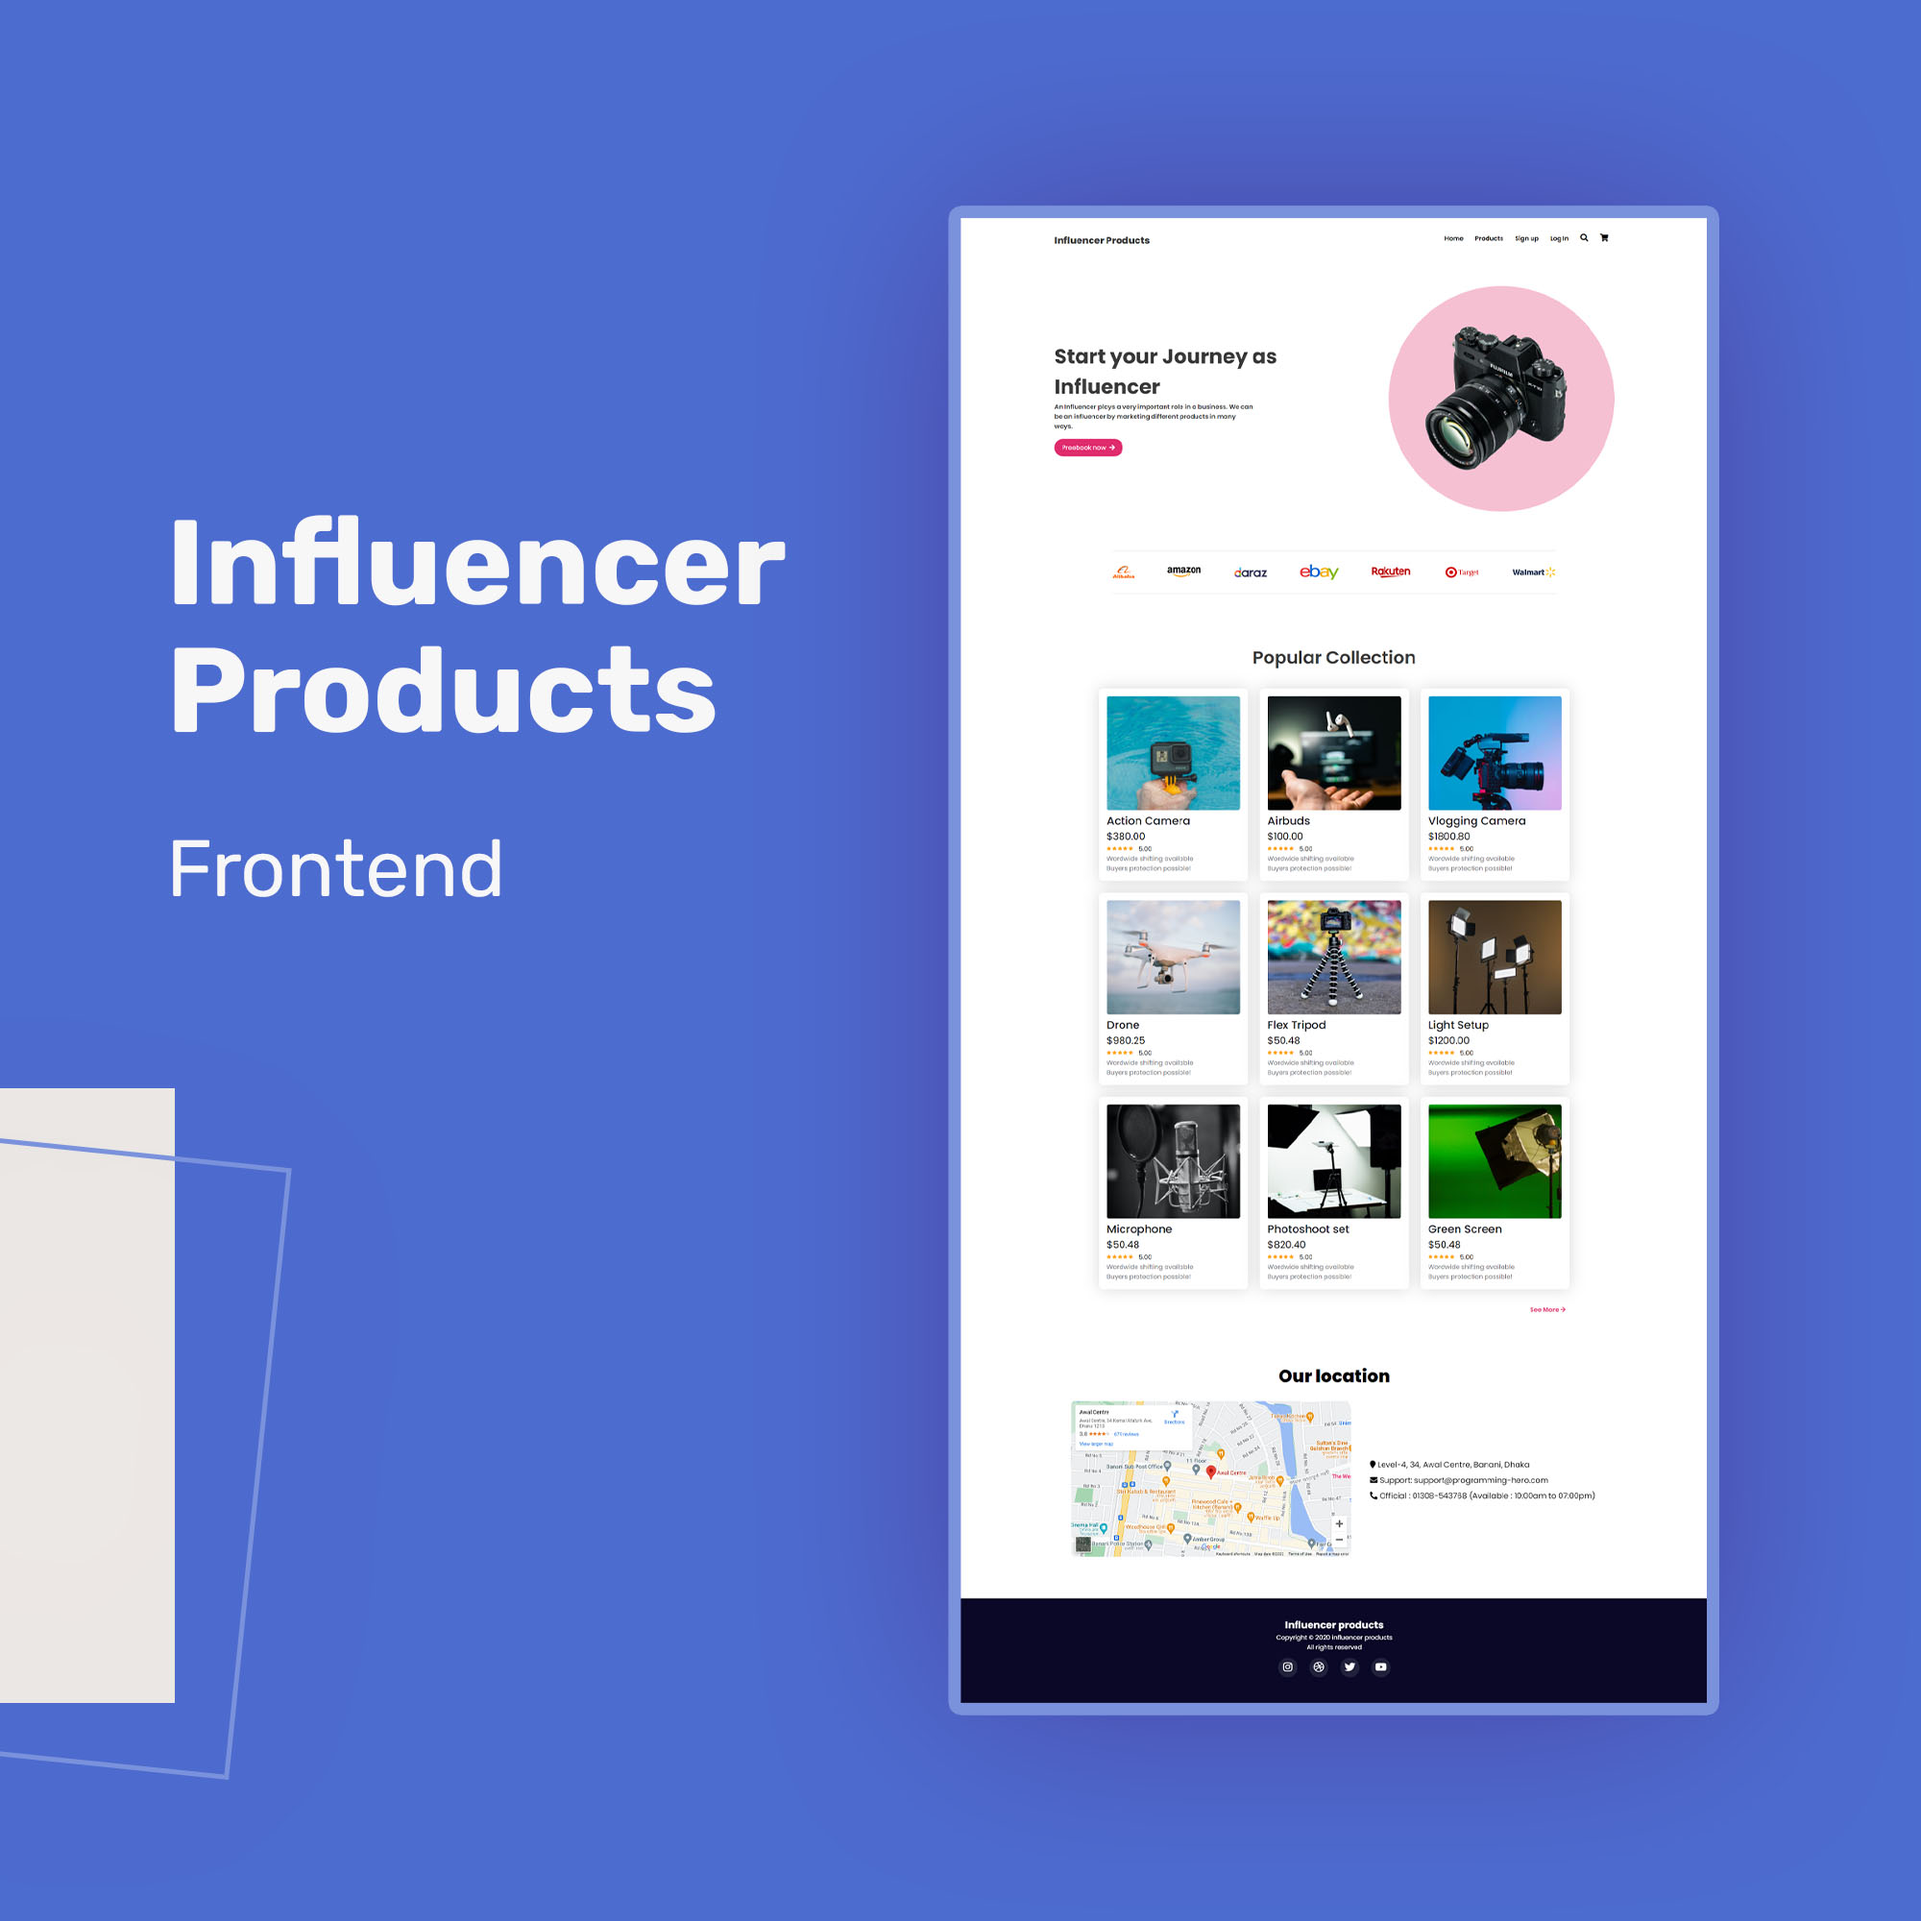
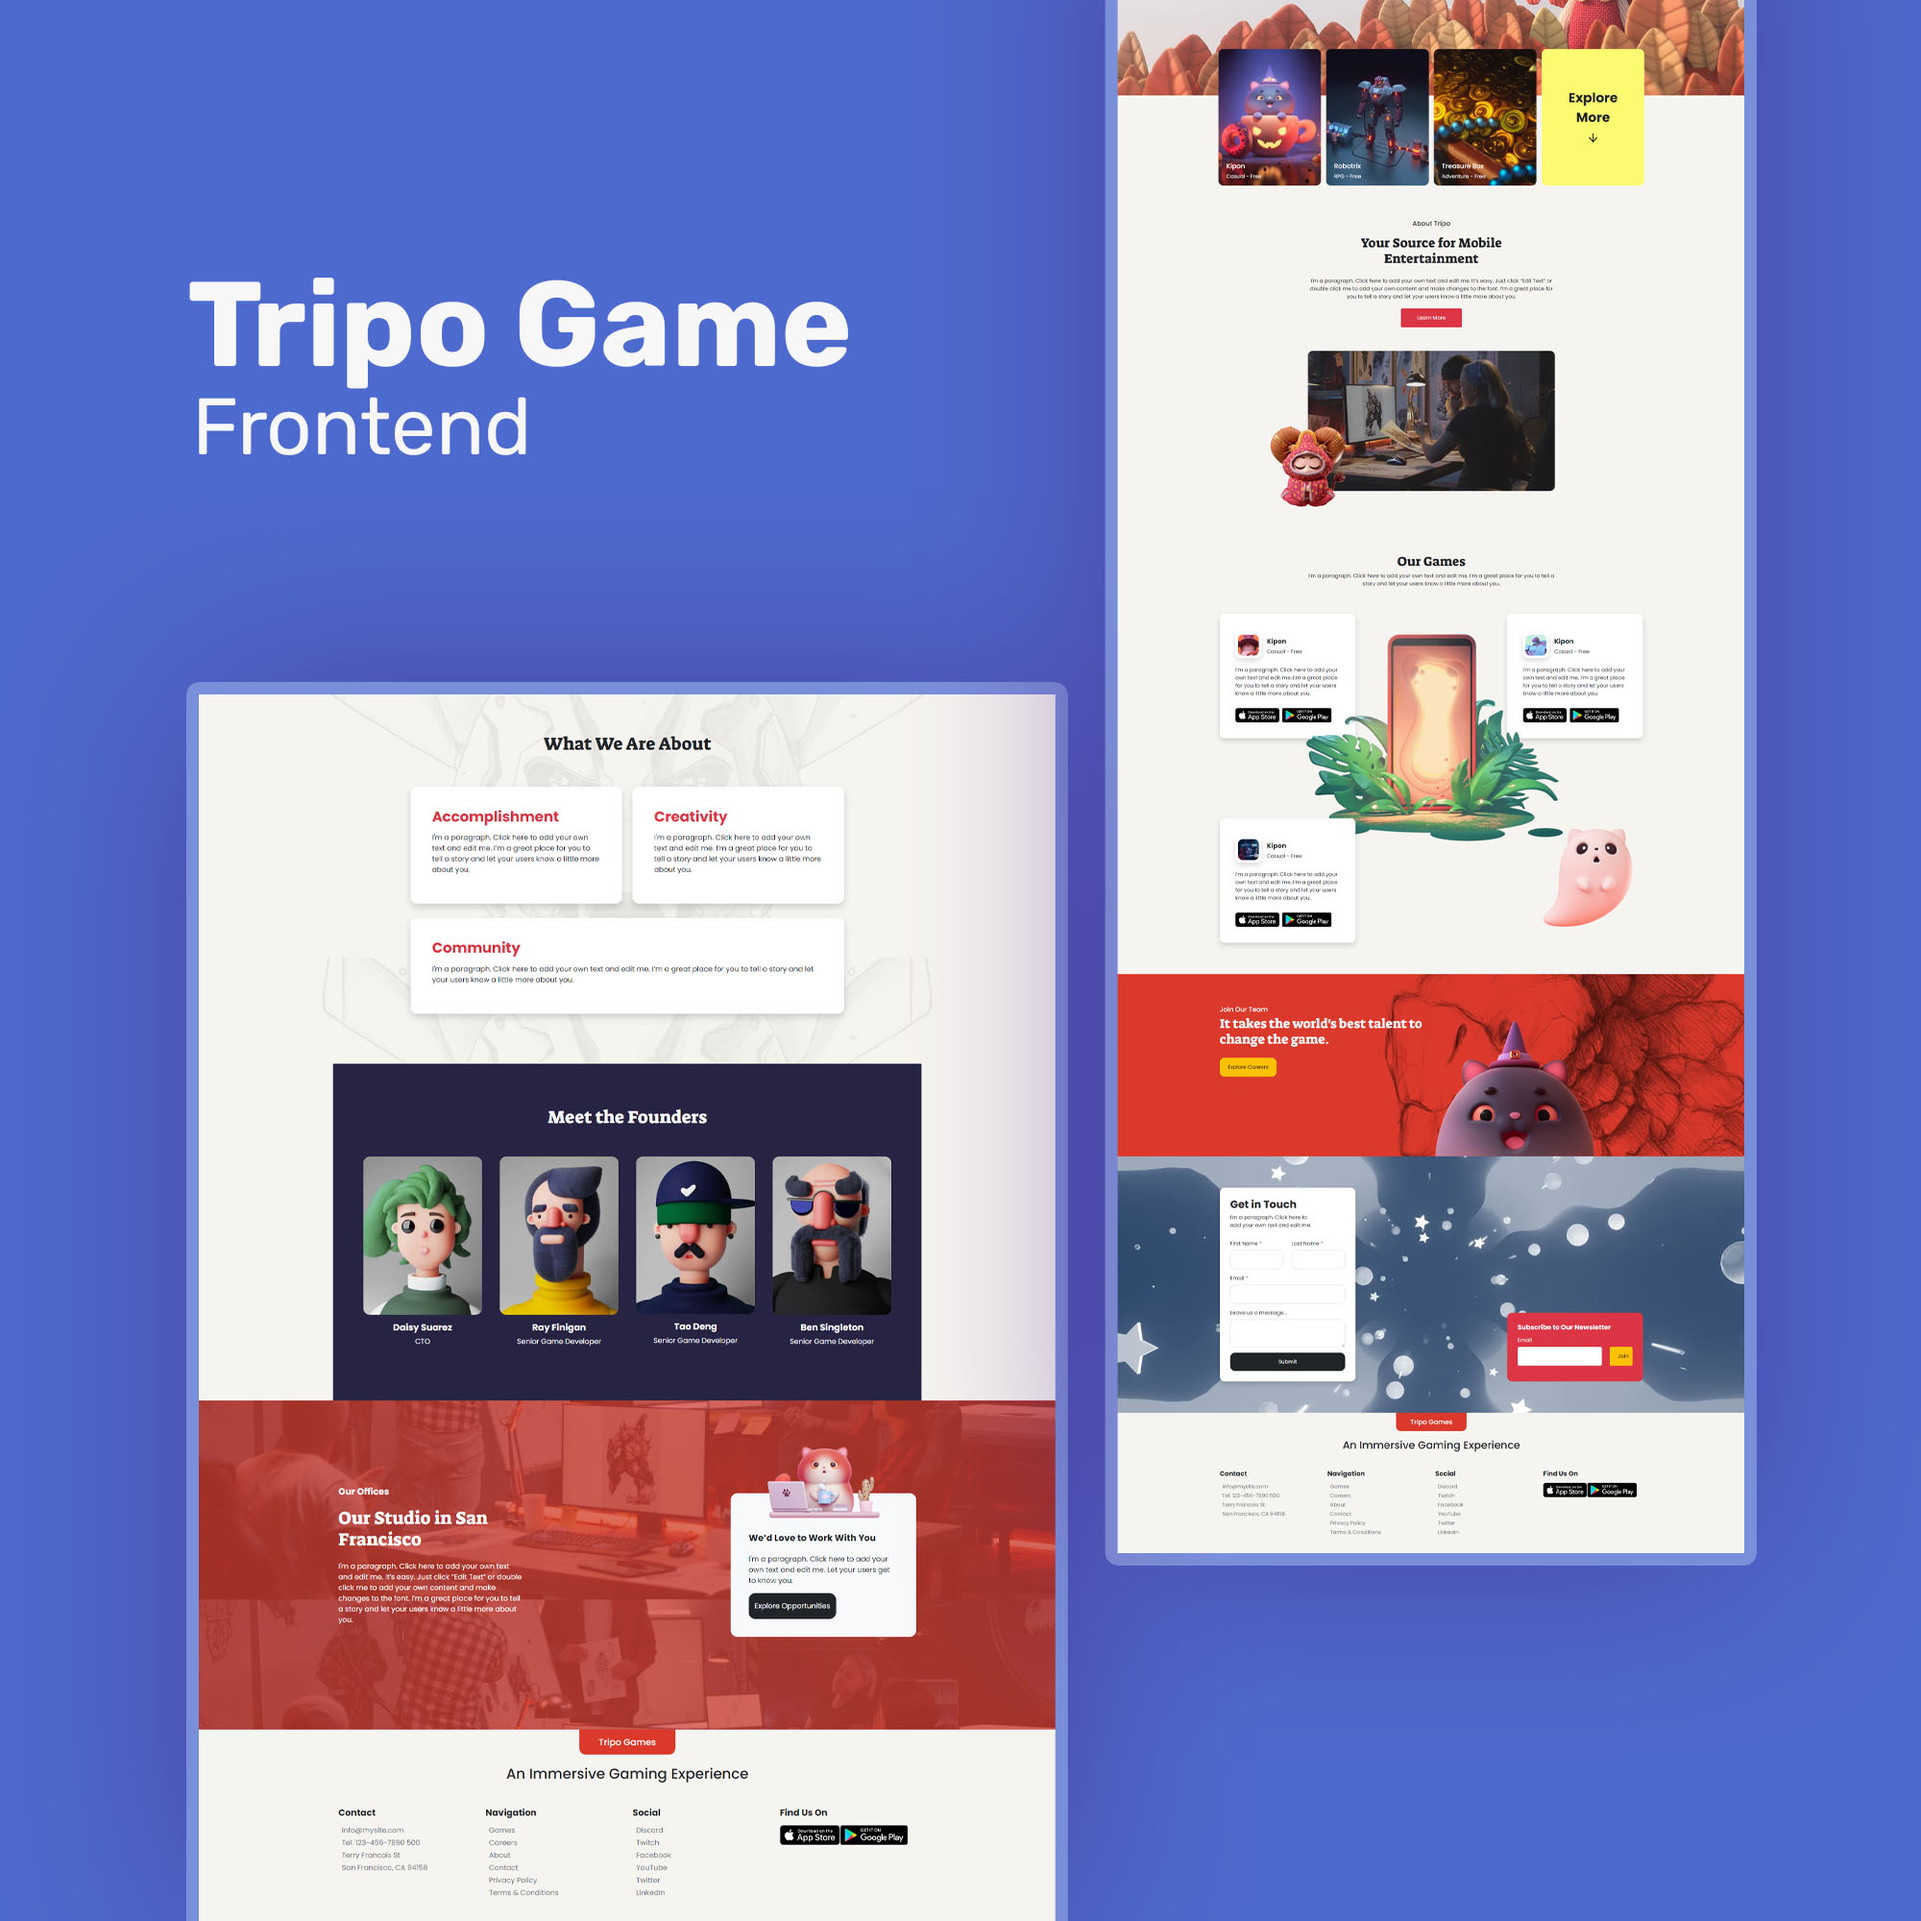
add new project

diff --git a/src/Components/Projects/InfluencerProducts.js b/src/Components/Projects/InfluencerProducts.js
@@ -34,8 +34,8 @@ const InfluencerProducts = () => {
                         </div>
                         <div className="col-lg-6">
                             <div className="py-3 px-2">
-                                <h5 className="fw-bold">Influencer Products</h5>
-                                <p>This website is not fully done.</p>
+                                <h5 className="fw-bold">Tripo Game Website</h5>
+                                <p>This is Gamming website.</p>
                                 {/* <h6>Overview:</h6>
                                 <p>
                                     <ul>
@@ -59,7 +59,7 @@ const InfluencerProducts = () => {
                                 <button className="btn btn-white ">
                                     <a
                                         className="text-success text-decoration-none"
-                                        href="https://sabbirsami.github.io/assignment02/index.html"
+                                        href="https://tripo-game.web.app/"
                                         target="_blank"
                                         rel="noreferrer"
                                     >
@@ -70,7 +70,7 @@ const InfluencerProducts = () => {
                                 <button className="btn btn-white text-success">
                                     <a
                                         className="text-success text-decoration-none"
-                                        href="https://github.com/sabbirsami/assignment02"
+                                        href="https://github.com/sabbirsami/tripo-game-site"
                                         target="_blank"
                                         rel="noreferrer"
                                     >
